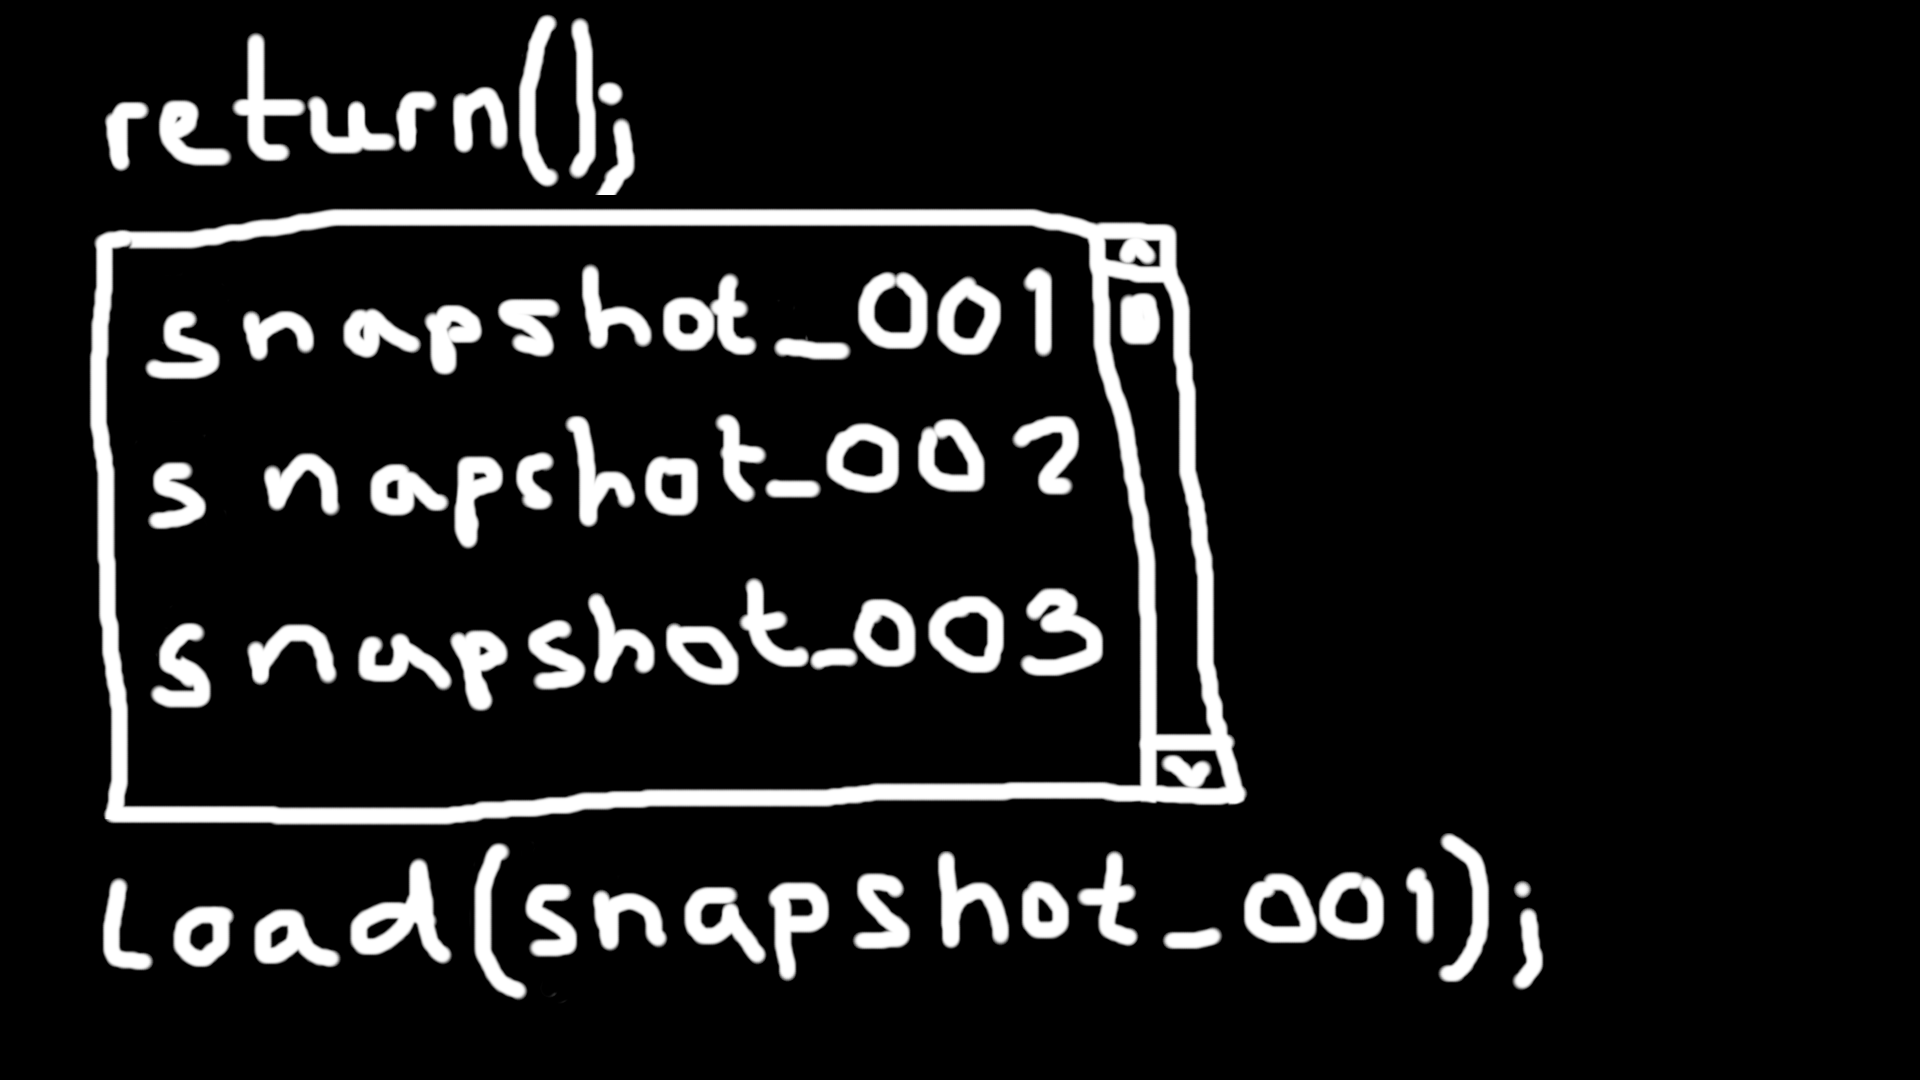
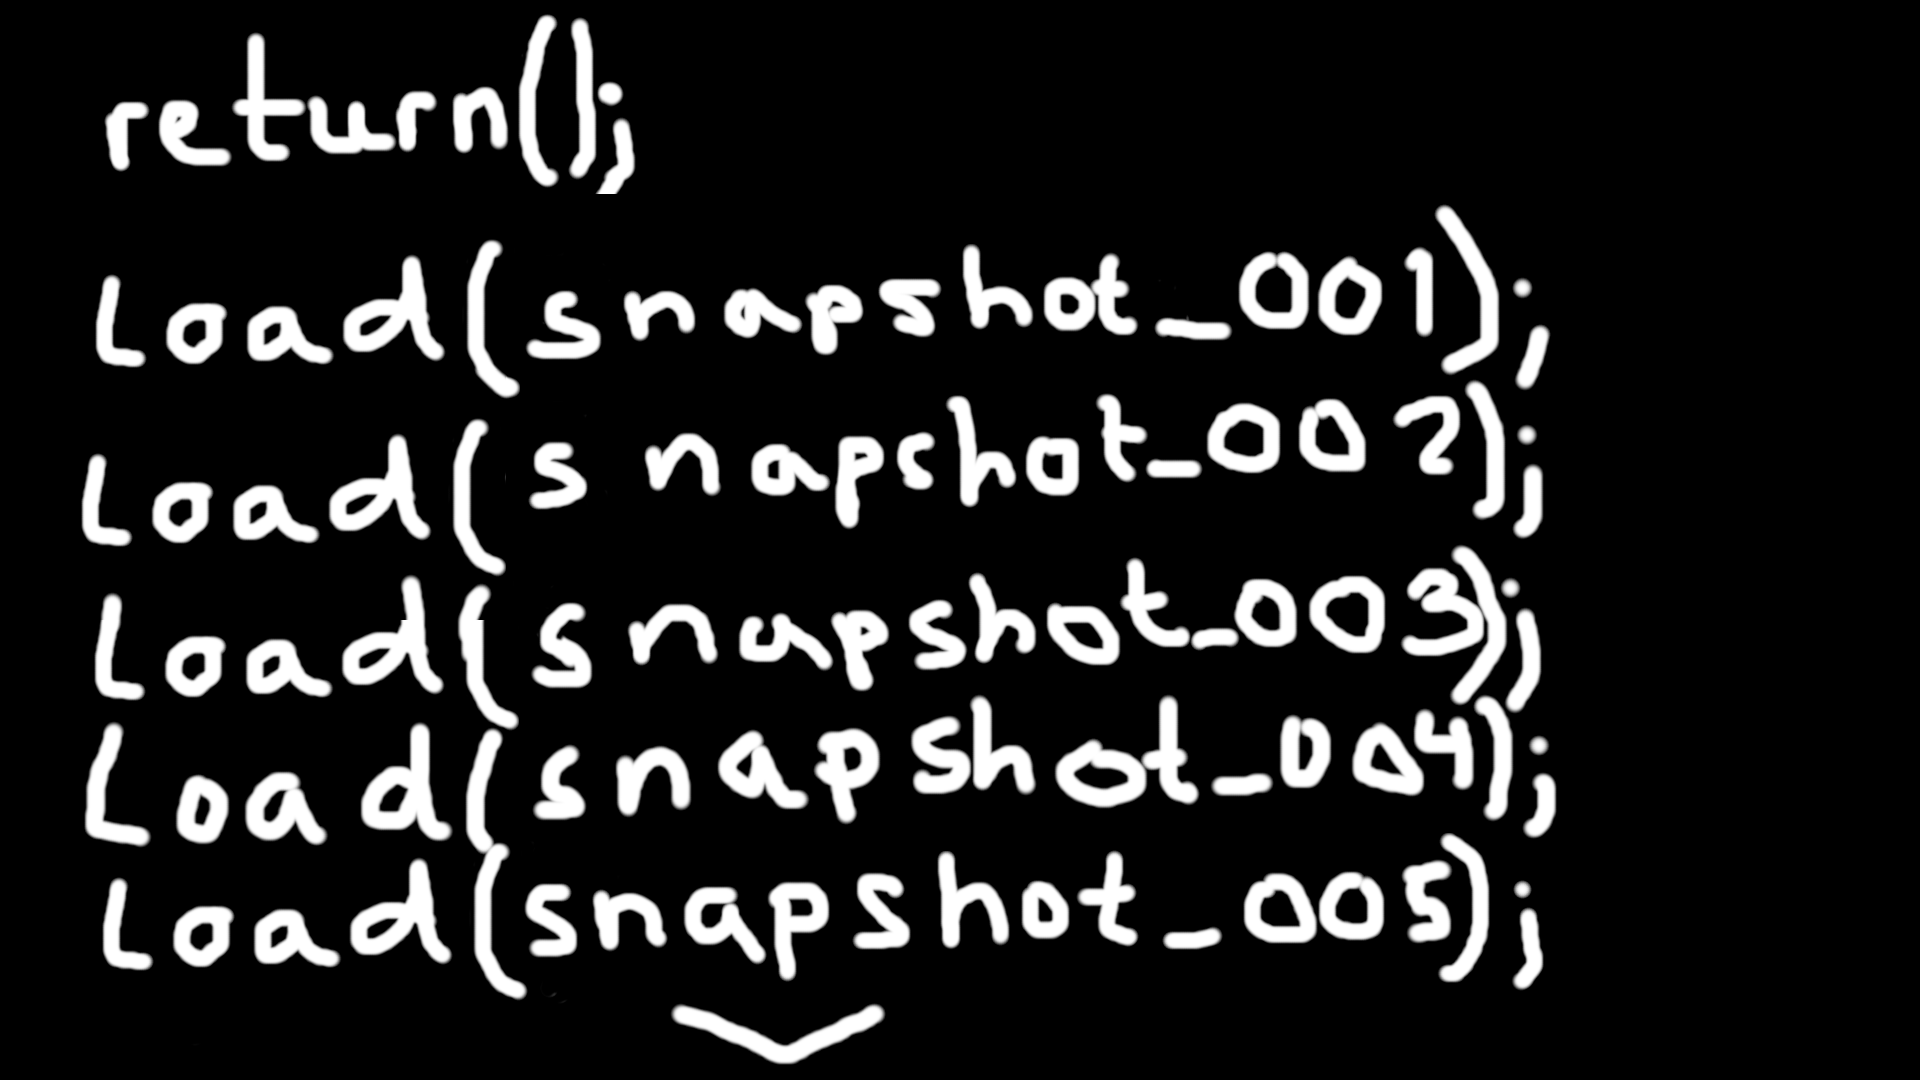
Started new design of lists in gui to not make it to complicated. The new idea is to just add scroll-feature in the screen, and add everything in the list as a ButtonArea. It will be easier to make it work with both mouse and gamepad.

diff --git a/RallyTheRobots/GUI/LoadMenuScreen.cs b/RallyTheRobots/GUI/LoadMenuScreen.cs
@@ -23,7 +23,7 @@ namespace RallyTheRobots
             ButtonArea filelistButton = new ButtonArea();
             filelistButton.SetIdleImage("Content\\loadmenu_filelist_idle.png");
             filelistButton.SetFocusedImage("Content\\loadmenu_filelist_focused.png");
-            filelistButton.SetSelectedImage("Content\\loadmenu_filelist_selected.png");
+            //filelistButton.SetSelectedImage("Content\\loadmenu_filelist_selected.png");
             filelistButton.Position = new Vector2(83, 210);
             AddButtonArea(filelistButton);
             SetFocusedAtEnterButtonArea(returnButton);
